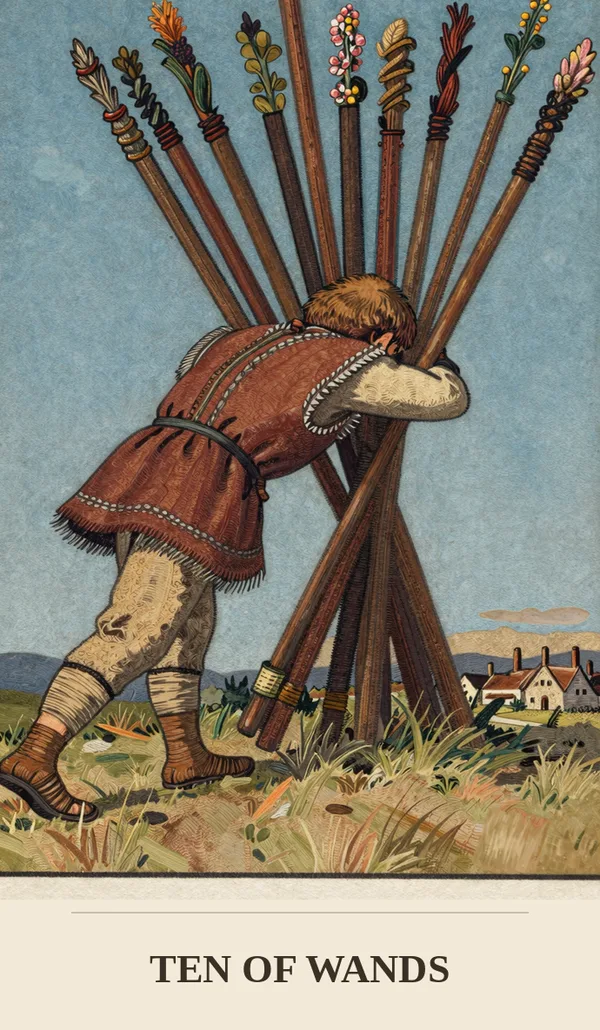
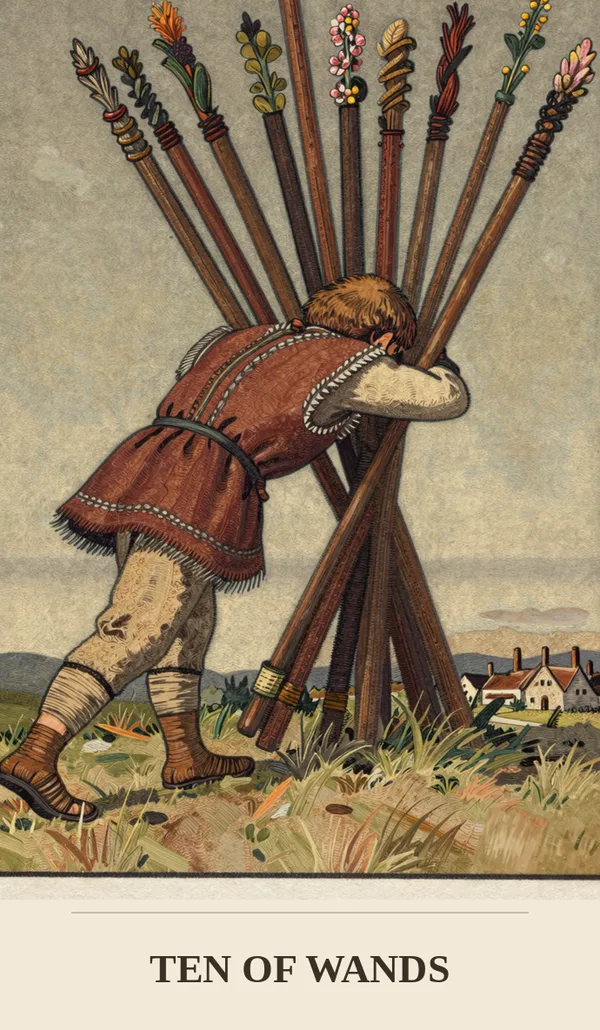
content(tarot): 10 of Wands sky warmed to the deck palette; assets v10
Saturation-masked recolor maps the RWS blue sky onto the warm dusk gradient
sampled from 9 of Wands, preserving brush texture.

diff --git a/shared/tarot/cards.ts b/shared/tarot/cards.ts
@@ -159,7 +159,7 @@ export function cardBySlug(slug: string): CardStruct | undefined {
  * גרסת נכסי החפיסה — מעלים אותה אחרי כל החלפת תמונות כדי לעקוף את מטמון
  * ה-CDN (Cloudflare) והדפדפן: שם הקובץ נשאר, ה-query string משתנה.
  */
-export const DECK_ASSETS_VERSION = 9;
+export const DECK_ASSETS_VERSION = 10;
 
 /** נתיב התמונה הציבורי של קלף; הנכסים מגיעים מצנרת tarot-deck. */
 export function cardImagePath(id: string): string {

diff --git a/shared/tarot/tarot.test.ts b/shared/tarot/tarot.test.ts
@@ -62,8 +62,8 @@ describe("tarot card structure", () => {
   it("looks up cards and builds image paths", () => {
     expect(cardById("pents-09")?.he).toBe("תשעה מטבעות");
     expect(cardById("nope")).toBeUndefined();
-    expect(cardImagePath("major-00")).toBe("/tarot-cards/major-00.webp?v=9");
-    expect(CARD_BACK_IMAGE).toBe("/tarot-cards/back.webp?v=9");
+    expect(cardImagePath("major-00")).toBe("/tarot-cards/major-00.webp?v=10");
+    expect(CARD_BACK_IMAGE).toBe("/tarot-cards/back.webp?v=10");
   });
 });
 
